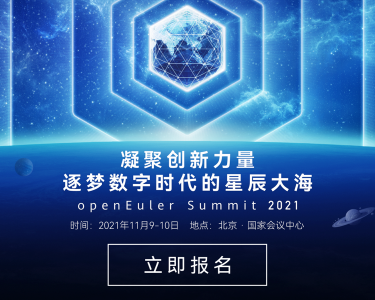
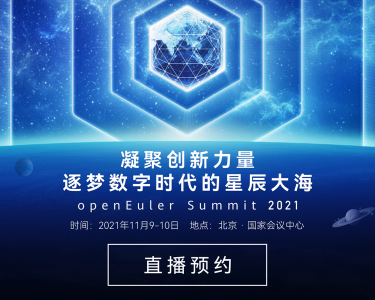
banner替换
banner替换+兼容性上线

Changed region(s): [[0.3813, 0.84, 0.616, 0.93]]

diff --git a/web-ui/docs/.vuepress/components/compatibility/compatibility.vue b/web-ui/docs/.vuepress/components/compatibility/compatibility.vue
@@ -276,7 +276,7 @@
                     </ul>
                 </el-tab-pane>
                 <!-- 软件 -->
-                <!-- <el-tab-pane :label="i18n.compatibility.SOFTWARE" name="software">
+                <el-tab-pane :label="i18n.compatibility.SOFTWARE" name="software">
                     <el-form :inline="true" :model="formData" class="compatibility-filter">
                         <el-form-item :label="i18n.compatibility.ARCHITECTURE">
                             <el-select class="pc-select" 
@@ -439,7 +439,7 @@
                             </ul>
                         </li>
                     </ul>
-                </el-tab-pane> -->
+                </el-tab-pane>
             </el-tabs>
             <!-- 分页 -->
             <el-pagination

diff --git a/web-ui/docs/.vuepress/components/summit/summit-summit.vue b/web-ui/docs/.vuepress/components/summit/summit-summit.vue
@@ -6,12 +6,12 @@
       :dataList="i18n.summit.NAV_LIST"
     ></titlenav>
     <div class="banner">
-      <a href="https://e-campaign.huawei.com/m/FjEF3q" target="_blank">
+      <a href="https://e-campaign.huawei.com/events2/registerPc/pcRegister.html?eventId=5482" target="_blank">
         <img class="main" :src="i18n.summit.SUMMIT_BANNER.PC_IMG" />
       </a>
     </div>
     <div class="h5-banner">
-      <a href="https://e-campaign.huawei.com/m/FjEF3q" target="_blank"
+      <a href="https://e-campaign.huawei.com/events2/registerPc/pcRegister.html?eventId=5482" target="_blank"
         ><img :src="i18n.summit.SUMMIT_BANNER.MOBILE_IMG"
       /></a>
     </div>

diff --git a/web-ui/docs/.vuepress/lang/lang-modules/summit.js b/web-ui/docs/.vuepress/lang/lang-modules/summit.js
@@ -378,7 +378,7 @@ module.exports = {
                 // 统信软件
                 [
                     {
-                        TIME: '13:30-14:00',
+                        TIME: '13:30 - 14:00',
                         THEME: '签到入场',
                     },
                     {
